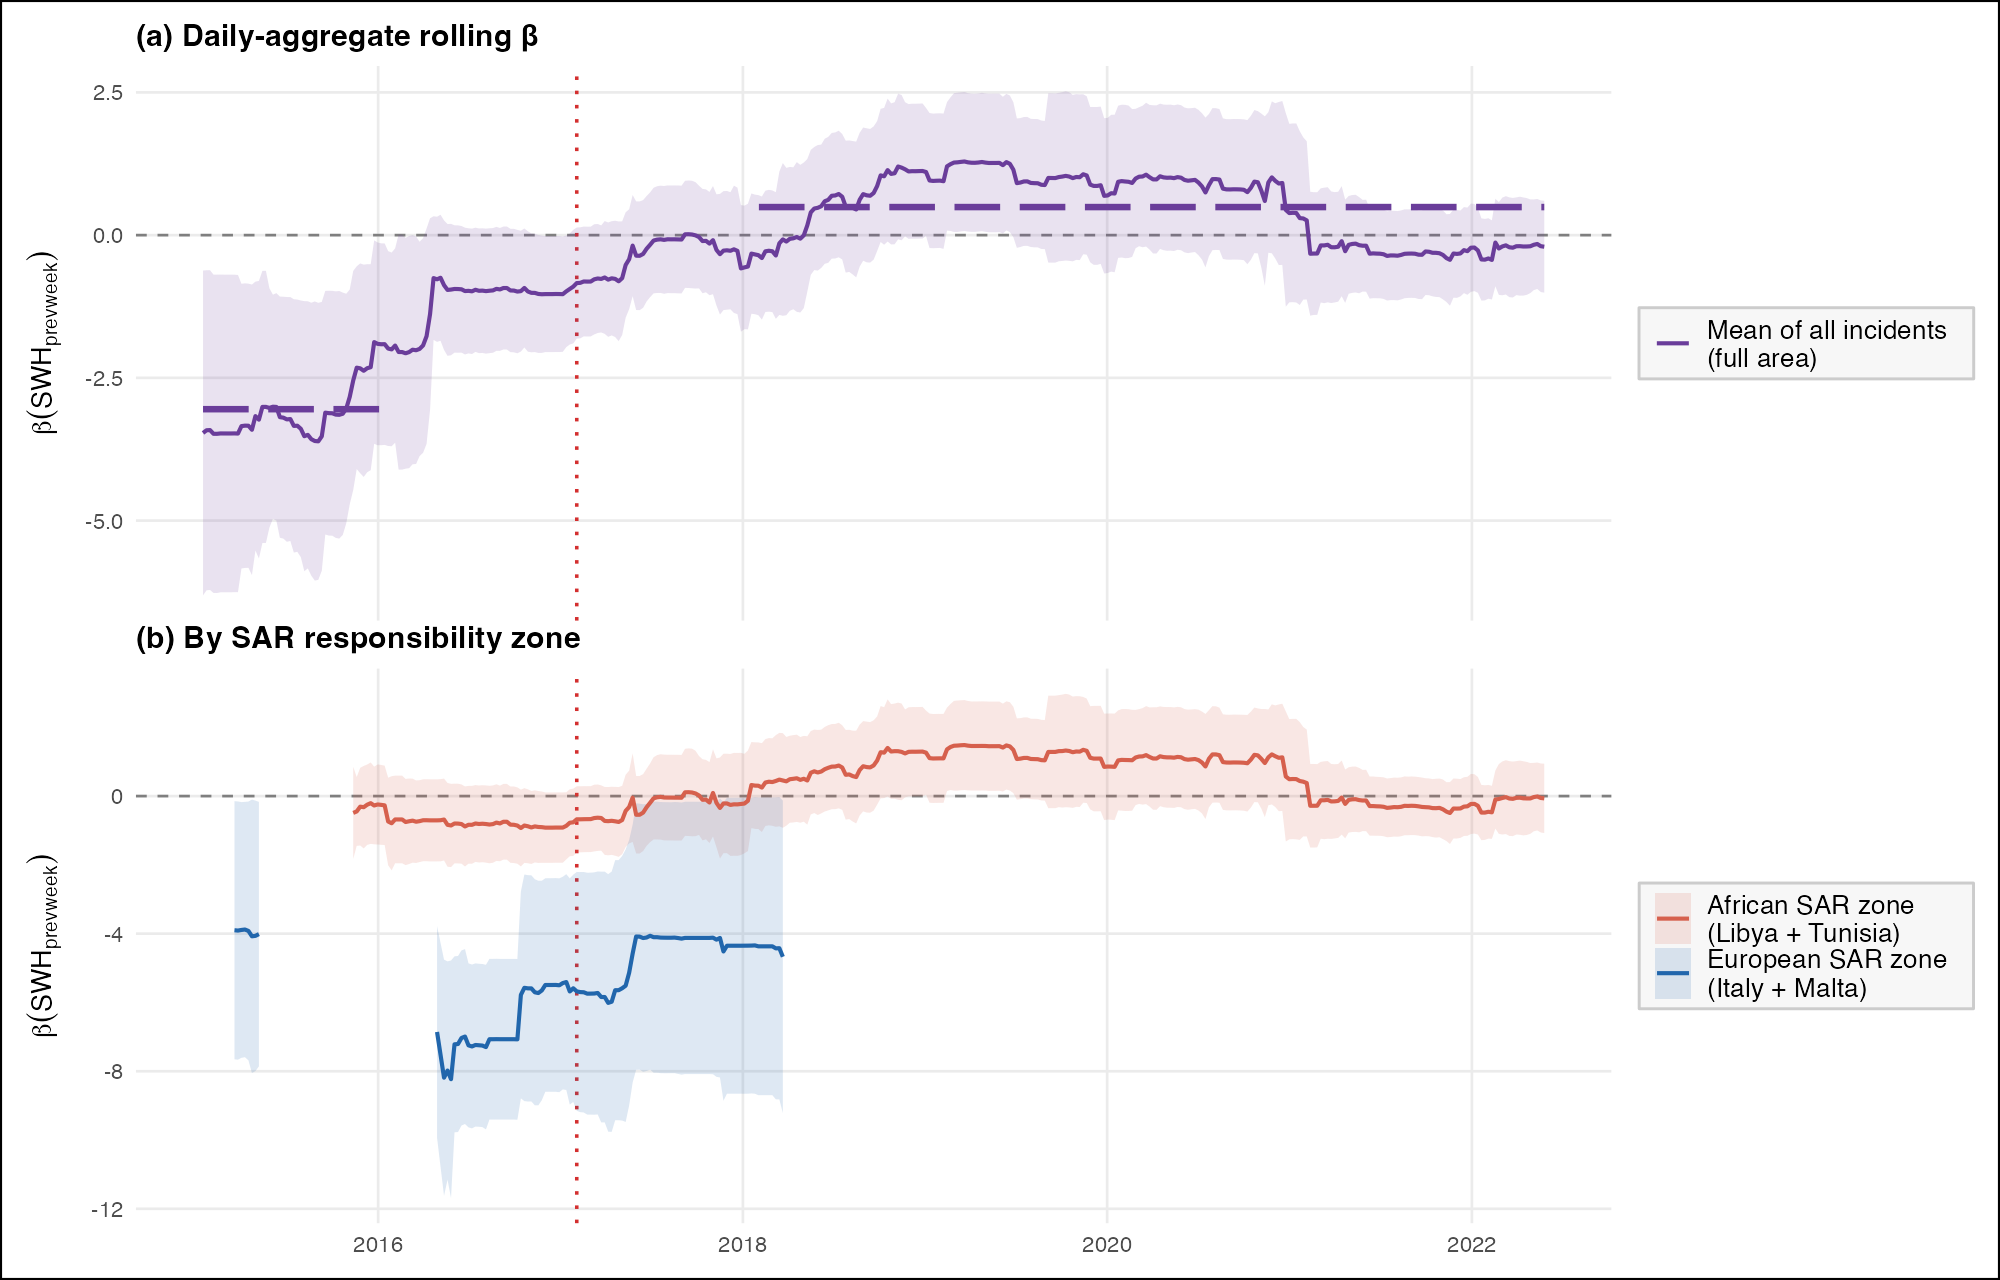
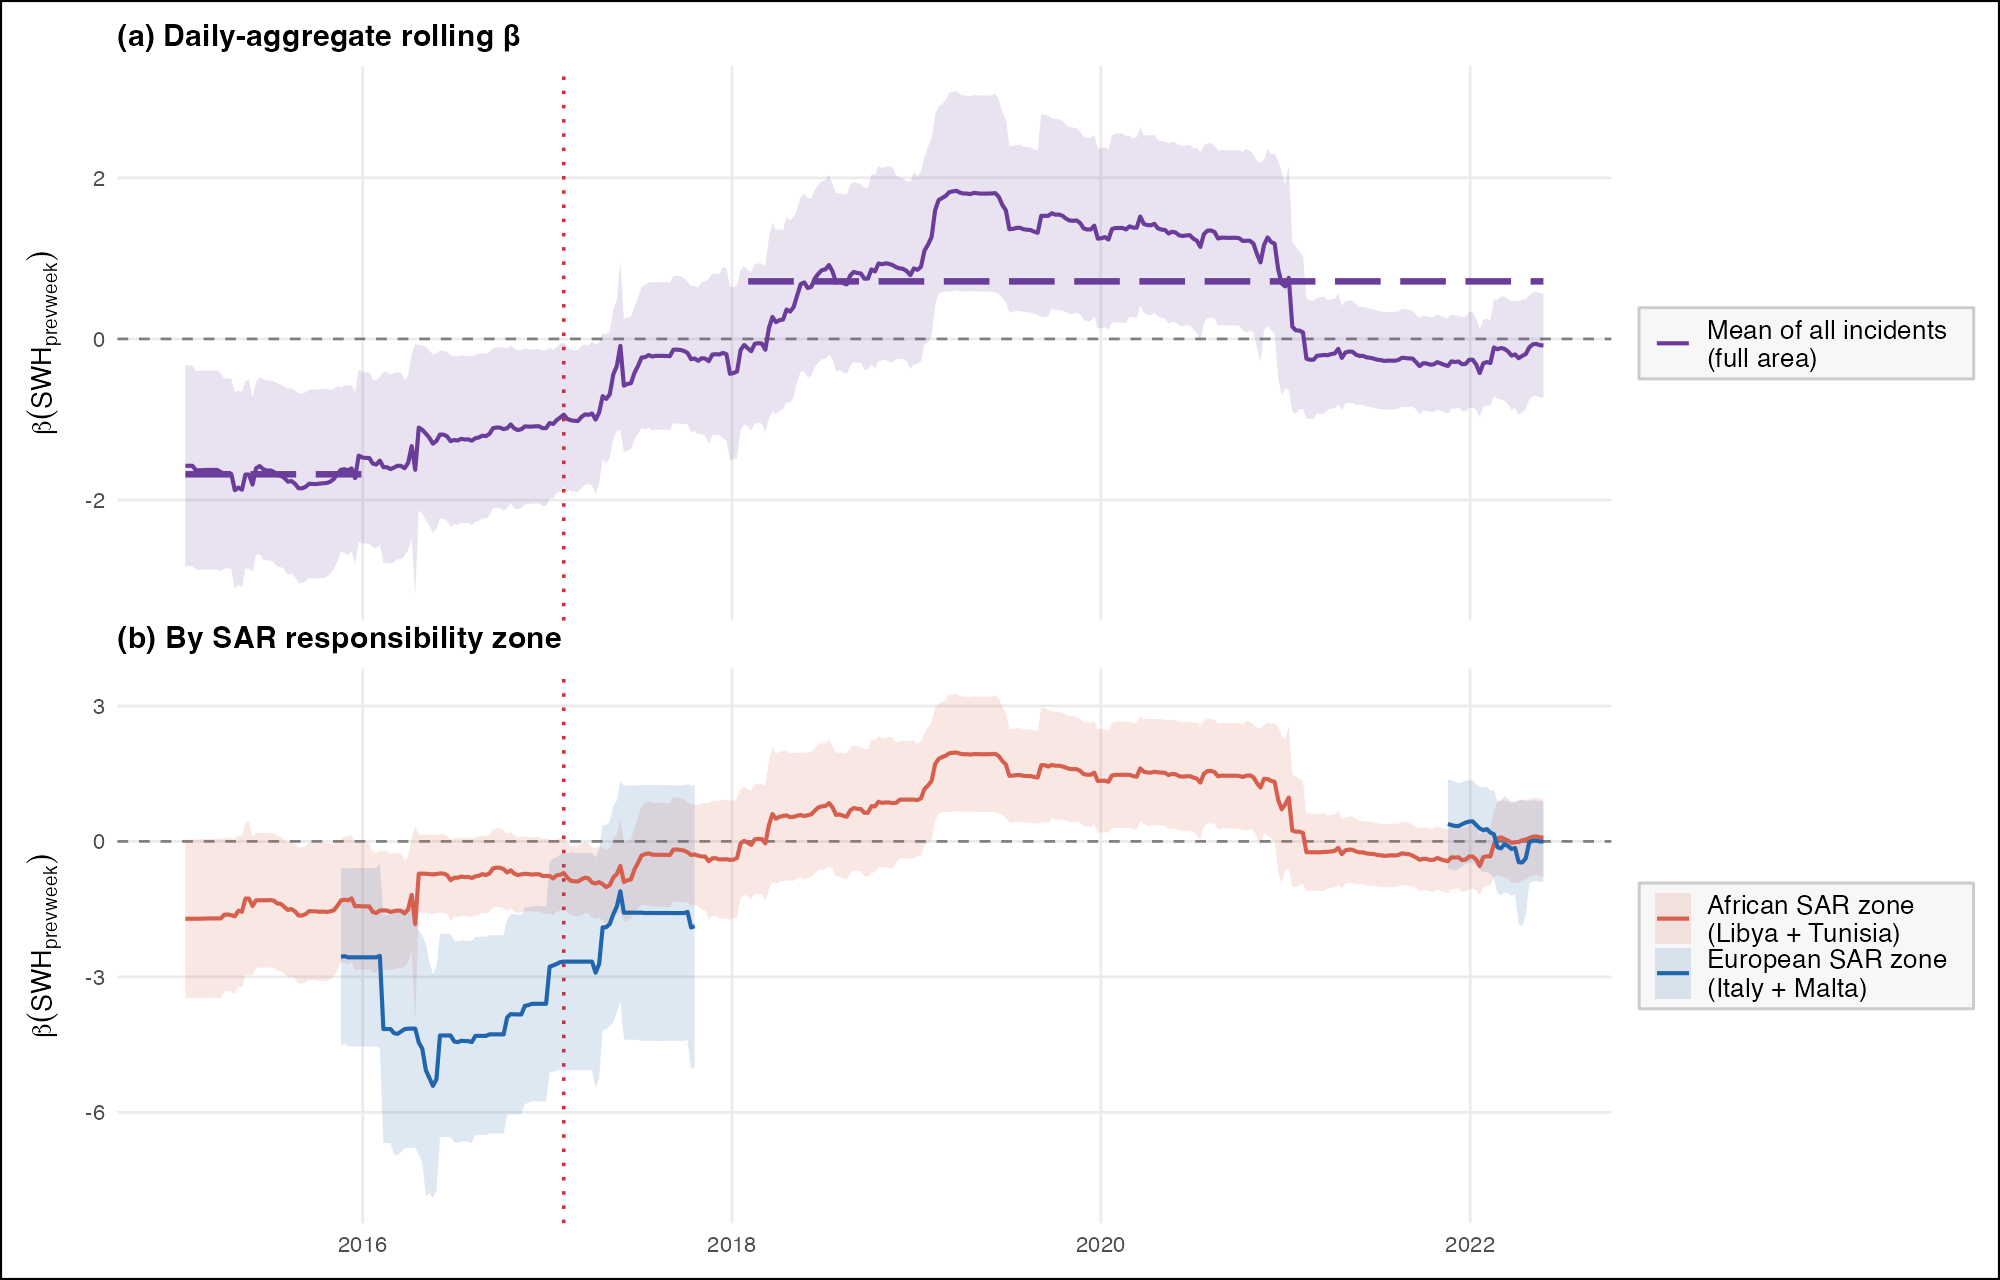
update

diff --git a/output/tables/04_descriptive/tab-data-summary.tex b/output/tables/04_descriptive/tab-data-summary.tex
@@ -1,4 +1,4 @@
-\begin{table}[H]
+\begin{table}[!htbp]
 \centering
 \caption{Summary of data used in the analysis.}
 \label{tab:data-summary}

diff --git a/output/tables/05_analysis/tab-mechanism.tex b/output/tables/05_analysis/tab-mechanism.tex
@@ -1,4 +1,4 @@
-\begin{table}[H]
+\begin{table}[!htbp]
 \centering
 \small
 \caption{SWH $\times$ SAR-proxy moderator interaction. Coefficients are per one standard deviation of the standardized weekly SAR proxy.}

diff --git a/output/tables/05_analysis/tab-period.tex b/output/tables/05_analysis/tab-period.tex
@@ -1,4 +1,4 @@
-\begin{table}[h!]
+\begin{table}[!htbp]
 \centering
 \small
 \caption{Period-specific SWH--mortality gradient. NegBin with month--year FE and NW(14) SEs. UNITED is fit from 2013-01-01 to take advantage of its longer span; IOM is fit from 2014-01-01, when MMP coverage begins. Both samples end on the eve of the January 2023 Piantedosi decree.}

diff --git a/output/tables/05_analysis/tab-primary.tex b/output/tables/05_analysis/tab-primary.tex
@@ -1,4 +1,4 @@
-\begin{table}[h!]
+\begin{table}[!htbp]
 \centering
 \small
 \caption{Primary count estimates of the SWH--mortality slope shift around the 2 February 2017 MoU.}

diff --git a/output/tables/05_analysis/tab-rate.tex b/output/tables/05_analysis/tab-rate.tex
@@ -1,4 +1,4 @@
-\begin{table}[h!]
+\begin{table}[!htbp]
 \centering
 \small
 \caption{Volume-controlled Poisson model with crossing-volume control.}